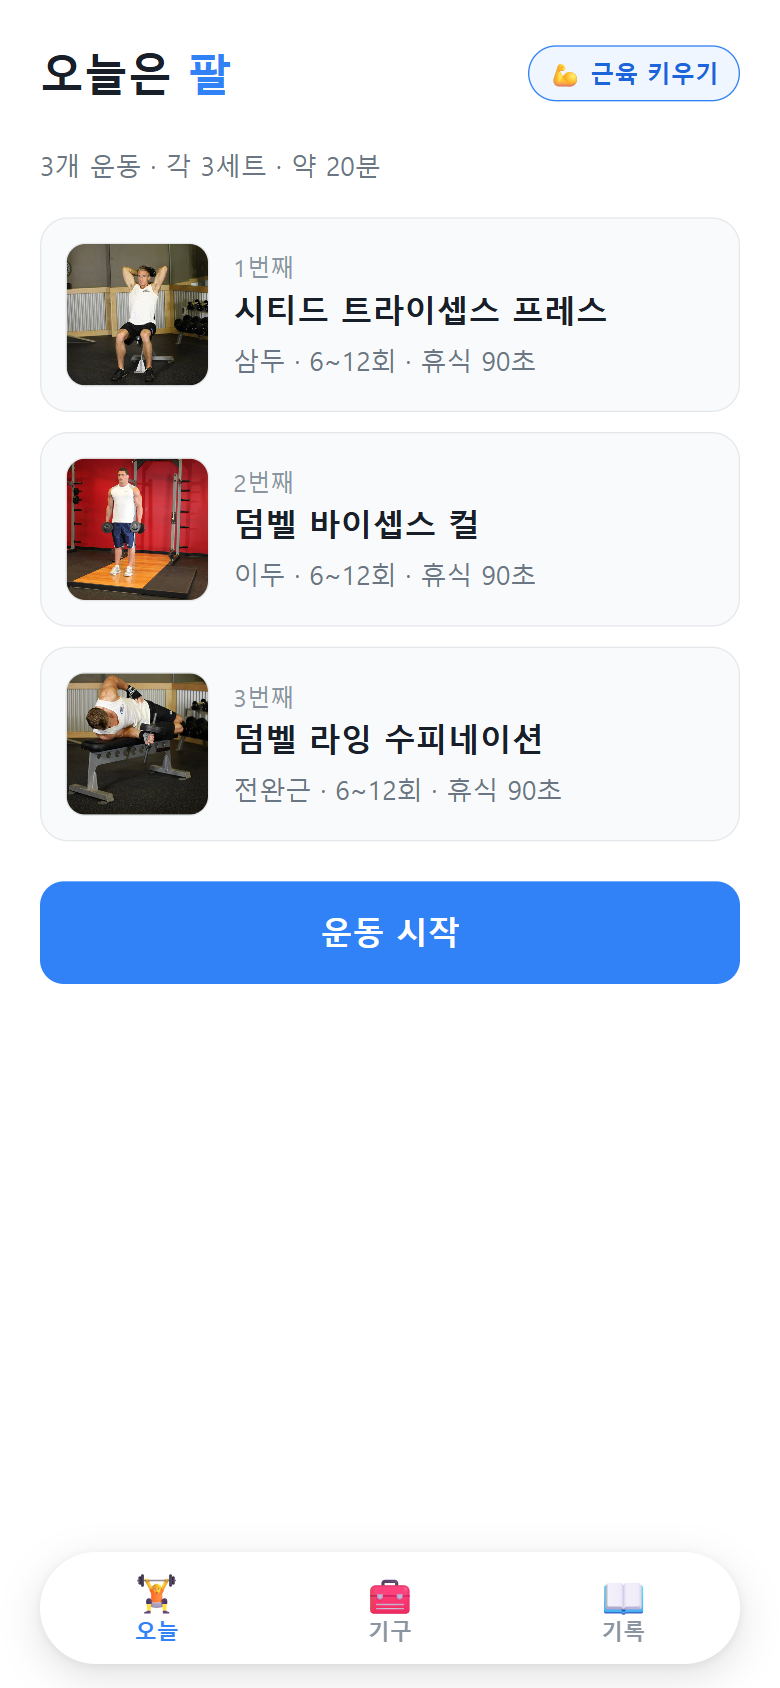
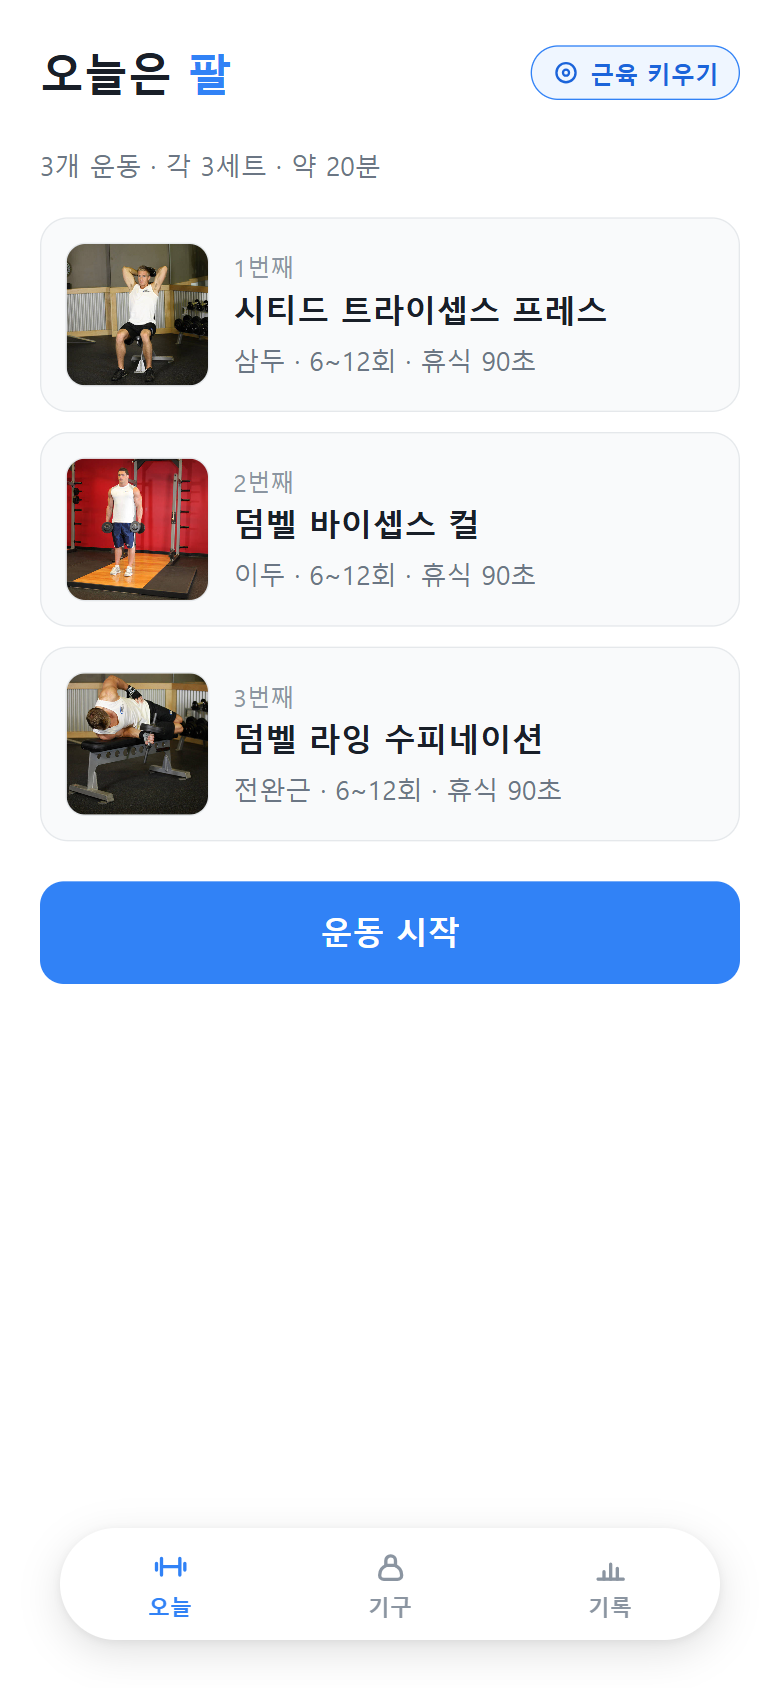
스토어 스크린샷 재촬영 — 새 탭바 + 새 아이콘
탭바 여백(T-224)과 화면 아이콘(T-223)이 연달아 바뀌어 콘솔에 올린 이미지가
전부 낡았다. 옛 화면이 찍힌 채로 재제출하면 심사에서 보는 것과 스토어에
뜨는 것이 달라진다.

raw/ 4장을 다시 찍고 render-screenshots.ps1로 store/ 5장을 다시 냈다.
문구는 그대로 두고 화면만 갈았다.

- 01-home  덤벨 보유 + 기록 3건
- 02-rest  휴식 타이머 1:25
- 03-shop  맨몸 기준 — 덤벨 +96개(2.7배). 스크롤 끝에서 찍어 대가성 문구가
           탭바에 안 가리게 했다
- 04-history  기록 3건

산출물 규격 실측: 세로 636x1048 4장 + 가로 썸네일 1932x828.

diff --git a/changeLog.md b/changeLog.md
@@ -7,6 +7,12 @@
 
 ---
 
+## 2026-08-26 · 스토어 스크린샷 재촬영 (새 탭바 + 새 아이콘)
+
+**의도**: 탭바 여백과 화면 아이콘이 연달아 바뀌어 콘솔에 올린 이미지가 전부 낡았다. 옛 화면이 찍힌 채로 재제출하면 심사에서 보는 것과 스토어에 뜨는 것이 다르다.
+
+**결과**: `raw/` 4장을 다시 찍고 `render-screenshots.ps1`로 `store/` 5장(세로 636×1048 ×4, 가로 썸네일 1932×828)을 다시 냈다. 콘솔 「앱 정보」에도 반영했다. 문구는 그대로 두고 화면만 갈았다.
+
 ## 2026-08-26 · 2차 반려 — 탭바 여백에 바닥값을 줬다
 
 **의도**: 플로팅으로 고쳐 재제출했는데 **글자 하나 다르지 않은 같은 사유로 또 반려**됐다. 수정이 번들에 들어갔는지부터 확인했고(머지 22:23 → 번들 업로드 22:24:25), 들어가 있었다 — 즉 고친 화면을 보고도 미달로 판정한 것이다.
